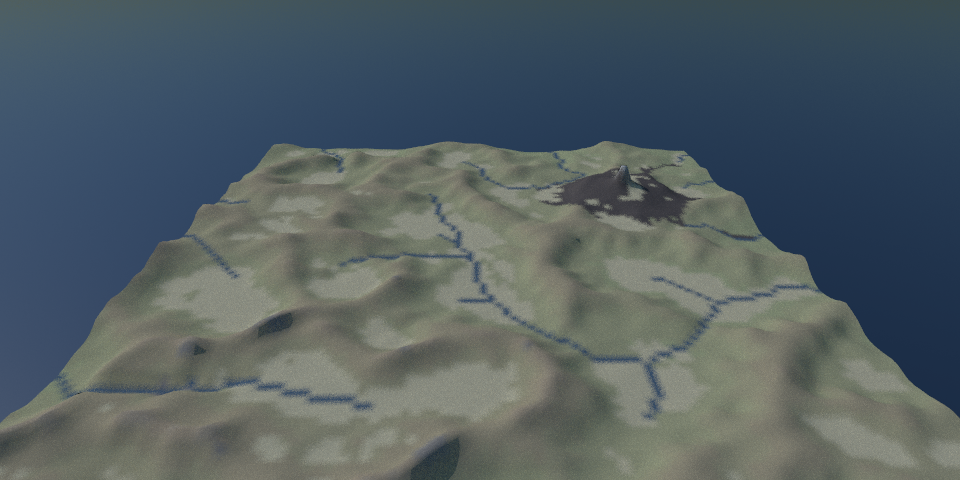
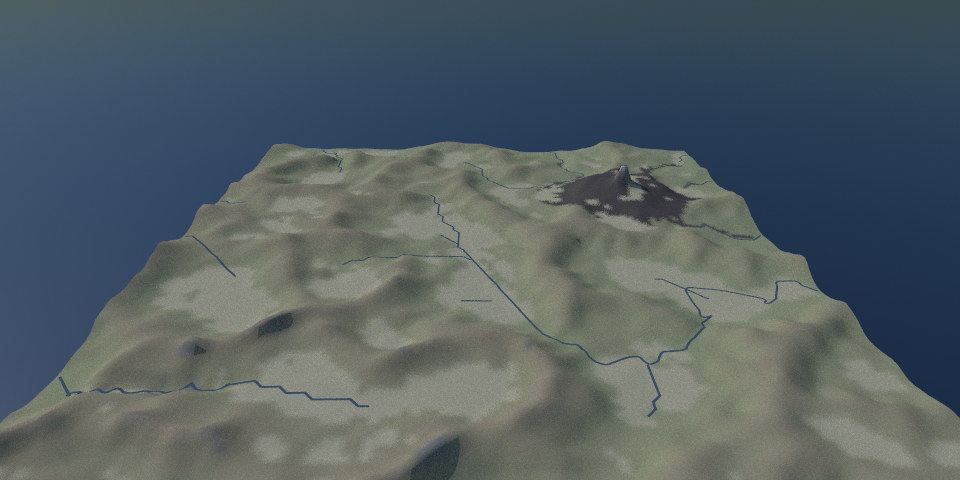
Add a coastal demo; draw rivers in the terrain demos as lines
A coastal plain below mountains with rivers meandering to the sea.
Re-rendered the alpine and volcanic demos with rivers drawn as lines (at
least 150 m wide, to be visible from afar). plan.md, README and the
gallery describe deltas, meanders and ox-bow lakes, with their reading.

Claude-Session: https://claude.ai/code/session_01U8ZZinQbGoCoSbDJ8UKF9u

diff --git a/plan.md b/plan.md
@@ -471,6 +471,13 @@ processes can be animated.
 - Volcanoes (`volcano.rs`): vents from a seeded planet-wide lattice (random spacing, as de
   Bremond d'Arcs et al. 1995 found), cones, and DOWNFLOW-style lava flows (Favalli et al.
   2005); eruption rates after White et al. 2006.
+- Deltas (`marine.rs`): river sediment reaching the sea is laid at the mouth and spread by
+  depth-dependent diffusion (Kaufman et al. 1991; Rivenæs 1992) that moves only sediment; sea
+  cells built above sea level become land, so deltas prograde.
+- Meanders (`channel.rs`): a sub-grid centreline model on low-gradient reaches of large rivers
+  (Ikeda et al. 1981; Howard and Knutson 1984), confined to the valley floor, with neck
+  cutoffs leaving ox-bow lakes that fill over centuries. Rivers on patches are drawn as lines
+  at their hydraulic-geometry widths (Leopold and Maddock 1953) rather than as whole cells.
 - Time (`simulation.rs`): operator splitting, deterministic and resumable; morphological
   acceleration (MORFAC) for glacial erosion.
 - Scene object `"type": "terrain"` (`object.rs`), maps (`map.rs`), demo
@@ -486,9 +493,13 @@ processes can be animated.
 
 ### Known limitations and open questions
 
-- Sediment leaving at the sea is lost: no deltas or marine deposits. No moraines (glacial
-  debris goes straight to the rivers), no lateral erosion by meandering, so alluvial valleys
-  widen only by deposition. The sediment-to-bedrock erodibility ratio (3) and lava's (0.3) are
+- No moraines (glacial debris goes straight to the rivers). Lakes fill flat (no lake deltas:
+  filling from the inlet built kilometre-high sediment cliffs on 500 m cells). Marine
+  diffusivity constants are typical values, not fitted.
+- Meanders don't change the grid (no lateral erosion of valley walls or reworking of the
+  floodplain), are only on patches, and are reset when a reach's downstream end moves (reaches
+  are re-found every 1000 years). Howard and Knutson's nonlinear R0(r/w) is simplified to the
+  linear form; no chute cutoffs, avulsion or braiding. The sediment-to-bedrock erodibility ratio (3) and lava's (0.3) are
   model choices; no source found for typical values.
 - Volcanoes: no craters, calderas, explosive (tephra) deposits or lahars; cones are linear in
   profile; vents don't respond to tectonics or to loading.
@@ -554,6 +565,15 @@ processes can be animated.
 - Volcanoes: Favalli, Pareschi, Neri, Isola, GRL 32(3), 2005, doi:10.1029/2004GL021718; White,
   Crisp, Spera, G-cubed 7, 2006, doi:10.1029/2005GC001002; de Bremond d'Arcs, Jaupart, Sparks,
   JGR 100(B10), 1995, doi:10.1029/95JB02153.
+- Meanders: Ikeda, Parker, Sawai, J. Fluid Mech. 112, 1981, doi:10.1017/S0022112081000451;
+  Howard and Knutson, WRR 20(11), 1984, doi:10.1029/WR020i011p01659; Camporeale et al., Rev.
+  Geophys. 45, 2007, doi:10.1029/2005RG000185; Leopold and Maddock, USGS PP 252, 1953,
+  doi:10.3133/pp252; Constantine and Dunne, Geology 36(1), 2008, doi:10.1130/G24130A.1;
+  Constantine et al., Sedimentology 57(2), 2010; Constantine et al., Nature Geoscience 7, 2014,
+  doi:10.1038/ngeo2282; Langston and Tucker, ESurf 6, 2018, doi:10.5194/esurf-6-1-2018.
+- Marine: Kaufman, Grotzinger, McCormick, Kansas Geol. Survey Bull. 233, 1991; Rivenæs, Basin
+  Research 4, 1992, doi:10.1111/j.1365-2117.1992.tb00136.x; Yuan et al., EPSL 524, 2019,
+  doi:10.1016/j.epsl.2019.115728.
 - Unchecked: Halfar's solution as given by Bueler et al., J. Glaciology 51(173), 2005 (used by
   `test_halfar_dome`, which passing within 3% supports).
 

diff --git a/README.md b/README.md
@@ -29,8 +29,9 @@ Supports:
   - Procedural Objects
     - Ocean (Tessendorf's algorithm with Phillips spectrum)
     - Terrain evolved through time from seeded noise by tectonic uplift, river incision and
-      deposition, glacial erosion (shallow ice approximation) and volcanism, over layered
-      geology, on a patch or a whole planet (see `src/terrain/`)
+      deposition, glacial erosion (shallow ice approximation), volcanism, deltas and
+      meandering rivers with ox-bow lakes, over layered geology, on a patch or a whole planet
+      (see `src/terrain/`)
     - Random Cubes
   - Multithreaded
   - Progressive rendering

diff --git a/demo/scenes.md b/demo/scenes.md
@@ -24,6 +24,9 @@ Volcanic mountains after the same cycle: a stratovolcano with lava flows, alluvi
 floors and filled lake basins.
 ![volcanic terrain](./scenes/terrain-volcanic.png)
 
+A coastal plain below mountains: rivers meandering to the sea, building deltas.
+![coastal terrain](./scenes/terrain-coast.png)
+
 ## Fireworks
 ![fireworks](./scenes/fireworks.png)
 
